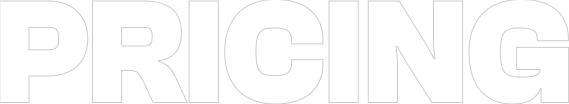
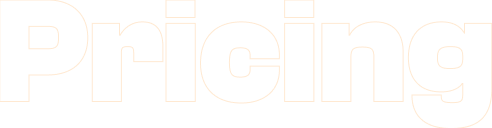
update

diff --git a/components/about/About.jsx b/components/about/About.jsx
@@ -1,0 +1,59 @@
+import React from "react";
+import "./style.css";
+import aboutImgOne from "../../public/about-img-1.png";
+import aboutImgTwo from "../../public/about-img-2.png";
+import Image from "next/image";
+
+const About = () => {
+  return (
+    <div id="about" className="h-auto flex-col pt-12 pb-20 md:px-14 px-6">
+      <div className="mb-[20px] md:mb-[40px] about_bg p-3 pl-10 ">
+        <div data-aos="zoom-out-up">
+          <h1 className="text-[#ffffff] font-semibold  text-[20px] md:text-[40px]">
+            -WHO WE ARE
+          </h1>
+        </div>
+      </div>
+
+      <section className="flex gap-6 justify-center items-center flex-wrap">
+        {/* card one */}
+        <div className="flex flex-col-reverse md:flex-col">
+          <div className=" w-full md:w-[300px]">
+            <h1 className="title_text font-semibold text-xl underline md:text-5xl ">
+              OUR VISION
+            </h1>
+          </div>
+          <p className="w-full md:w-[450px] text-[#ff931e] text-[16px] font-medium mt-5 md-[24px]">
+            To create Prosperity for Brands through Branding & Marketing and
+            move businesses to a unicorn status within a decade.
+          </p>
+          <div className="w-full md:w-[430px] mt-7" data-aos="flip-left">
+            <Image src={aboutImgOne} />
+          </div>
+        </div>
+        {/* card one */}
+
+        {/* card two */}
+        <div>
+          <div className="w-full md:w-[430px] mt-4" data-aos="flip-right">
+            <Image src={aboutImgTwo} />
+          </div>
+          <div className="w-[370px] mt-7">
+            <h1 className="title_text font-semibold text-xl underline md:text-5xl ">
+              OUR MISSION
+            </h1>
+          </div>
+          <p className="w-full md:w-[450px] text-[#ff931e] text-[16px] font-medium mt-5 md-[24px] ">
+            <p className="font-bold span_class inline">BrandOn</p> is on the
+            adventure of breaking templates and “by the books” type of branding
+            by using research to create custom and data-based branding solutions
+            specific to individual brands.
+          </p>
+        </div>
+        {/* card two */}
+      </section>
+    </div>
+  );
+};
+
+export default About;

diff --git a/components/blog/Blog.jsx b/components/blog/Blog.jsx
@@ -12,16 +12,27 @@ const Blog = () => {
       className="bg-[#ffffff] text-[#000000] h-[auto] px-6 md:px-12 py-12"
       id="blog"
     >
-      <p className="font-semibold">- Blogs</p>
-      <div className="flex justify-between flex-wrap gap-5">
-        <h1 className="font-semibold md:text-[32px] text-[20px] md:w-[647px] w-full">
-          Browse our articles on marketing and growth
-        </h1>
+      <div className="flex justify-between ">
+        <div className="mb-[20px] md:mb-[40px] blog_bg p-3 ">
+          <div data-aos="zoom-out-up">
+            <h1 className="text-[#000000] font-semibold  text-[20px] md:text-[40px]">
+              -Blogs
+            </h1>
+          </div>
+        </div>
+        <div>
+          <p className="md:text-[20px] font-medium text-right text-[16px] mt-4 md:mt-5 md:w-[647px] w-full">
+            Browse our articles on marketing and growth
+          </p>
+        </div>
+      </div>
+
+      {/* <div className="flex justify-between flex-wrap gap-5">
         <p className="md:w-[440px] w-[100%]">
           Nulla Lorem mollit cupidatat irure. Laborum magna nulla duis ullamco
           cillum dolor. Voluptate exercitation incididunt aliquip deserunt.
         </p>
-      </div>
+      </div> */}
       <div className="flex g-10 flex-wrap justify-between pt-10">
         {/* big blog card */}
         <div>

diff --git a/components/header/style.css b/components/header/style.css
@@ -17,6 +17,23 @@
   background-size: cover;
   color: #ffffff;
   height: 900px;
+  position: relative;
+}
+
+.header::before {
+  content: ""; /* Required for pseudo-elements, although empty */
+  position: absolute; /* Position the overlay relative to the container */
+  top: 0;
+  left: 0;
+  width: 100%;
+  height: 100%;
+  z-index: -1;
+  background-color: rgba(
+    0,
+    0,
+    0,
+    0.5
+  ); /* Adjust the color and opacity of the overlay */
 }
 
 @media (max-width: 900px) {

diff --git a/app/page.js b/app/page.js
@@ -1,4 +1,5 @@
 "use client";
+import About from "@/components/about/About";
 import Blog from "@/components/blog/Blog";
 import Footer from "@/components/footer/Footer";
 import Header from "@/components/header/Header";
@@ -21,6 +22,7 @@ export default function Home() {
   return (
     <div className="bg-[#181818]">
       <Header />
+      <About />
       <Offer />
       <Works />
       <Services />

diff --git a/components/pricing/Pricing.jsx b/components/pricing/Pricing.jsx
@@ -16,7 +16,7 @@ const Pricing = () => {
           className="text-[#000000] font-semibold  text-[40px] md:text-[40px]"
           data-aos="flip-right"
         >
-          PRICING
+          -PRICING
         </h1>
         <p className="font-medium text-[#000000] md:text-right text-center w-[100%] md:w-[500px]">
           Lets’s make the wise decision for your Business with our Affordable

diff --git a/components/about/style.css b/components/about/style.css
@@ -1,12 +1,12 @@
-.blog_bg {
-  background-image: url("../../public/Blog_bg.png");
+.about_bg {
+  background-image: url("../../public/about_bg.png");
   background-size: contain;
   background-repeat: no-repeat;
   width: 600px;
 }
 
 @media (max-width: 600px) {
-  .blog_bg {
+  .about_bg {
     width: 100%;
   }
 }

diff --git a/components/header/Header.jsx b/components/header/Header.jsx
@@ -31,7 +31,7 @@ const Header = () => {
       >
         <OverLayNavbar handleClick={handleClick} />
       </div>
-      <div>
+      <div className="z-10">
         <Navbar
           showMobileNav={showMobileNav}
           handleShowMobileNav={handleShowMobileNav}

diff --git a/components/navigation/data.js b/components/navigation/data.js
@@ -5,6 +5,11 @@ export const menuItems = [
     path: "home",
   },
   {
+    id: 10,
+    text: "ABOUT US",
+    path: "abou",
+  },
+  {
     id: 2,
     text: "SERVICES",
     path: "services",

diff --git a/utils/data.js b/utils/data.js
@@ -19,6 +19,11 @@ export const links = [
     path: "home",
   },
   {
+    id: 10,
+    text: "ABOUT US",
+    path: "about",
+  },
+  {
     id: 2,
     text: "SERVICES",
     path: "services",
